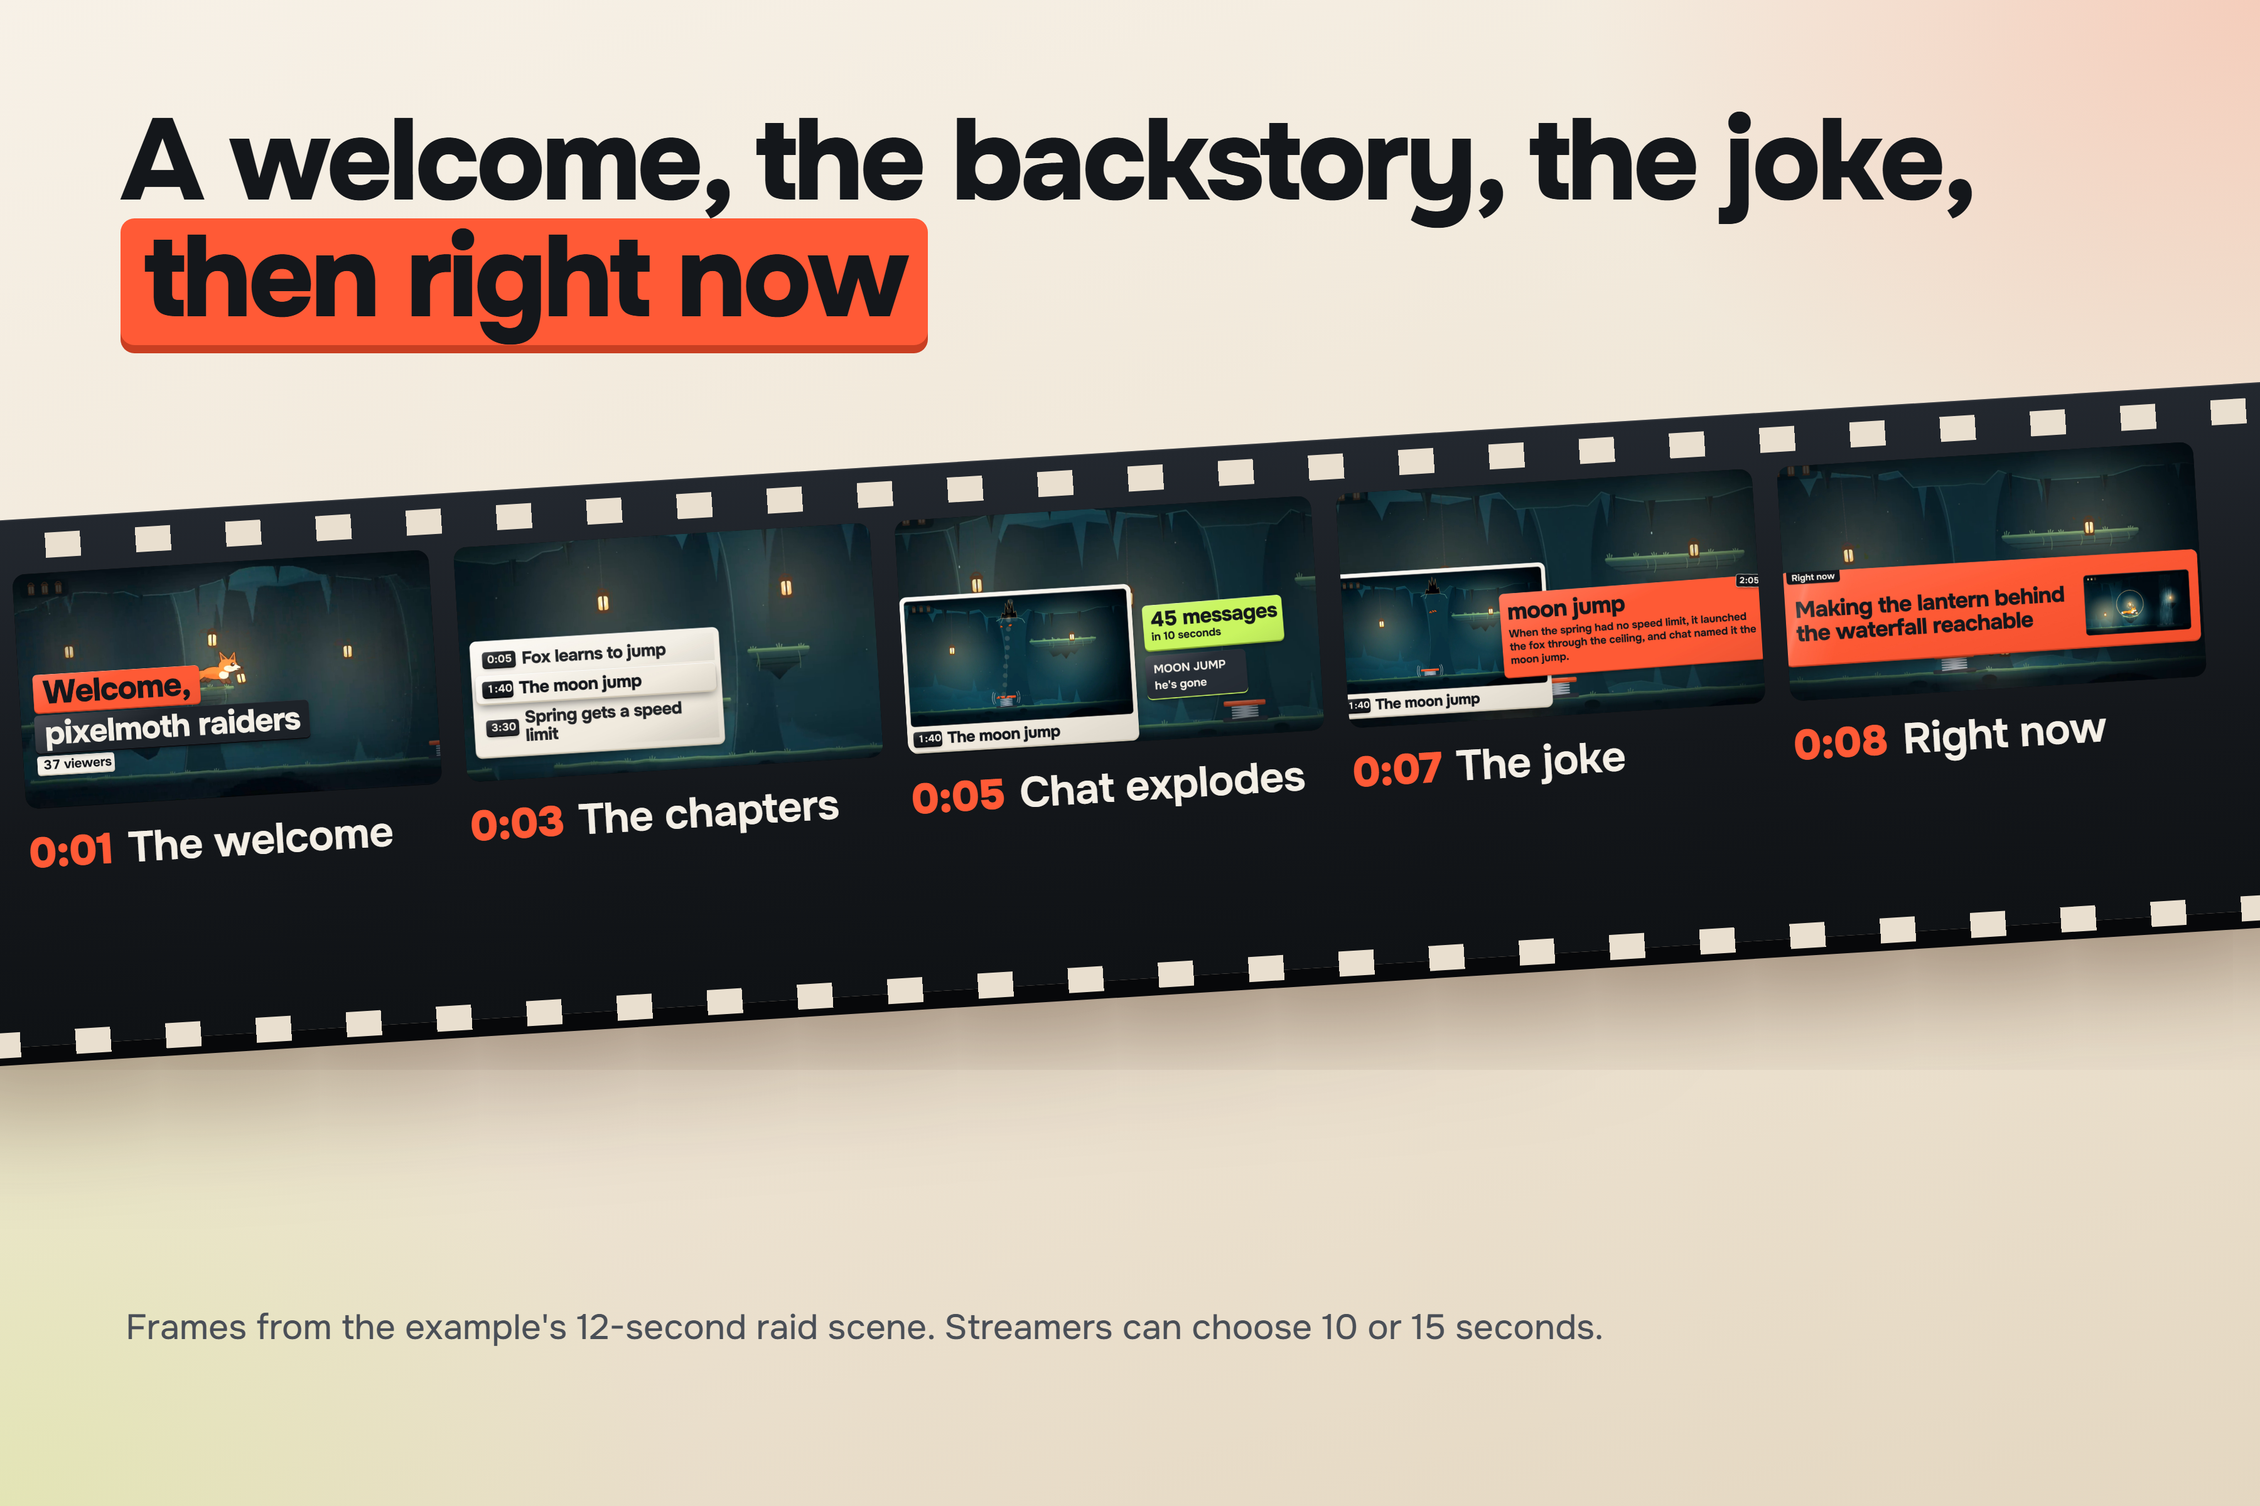
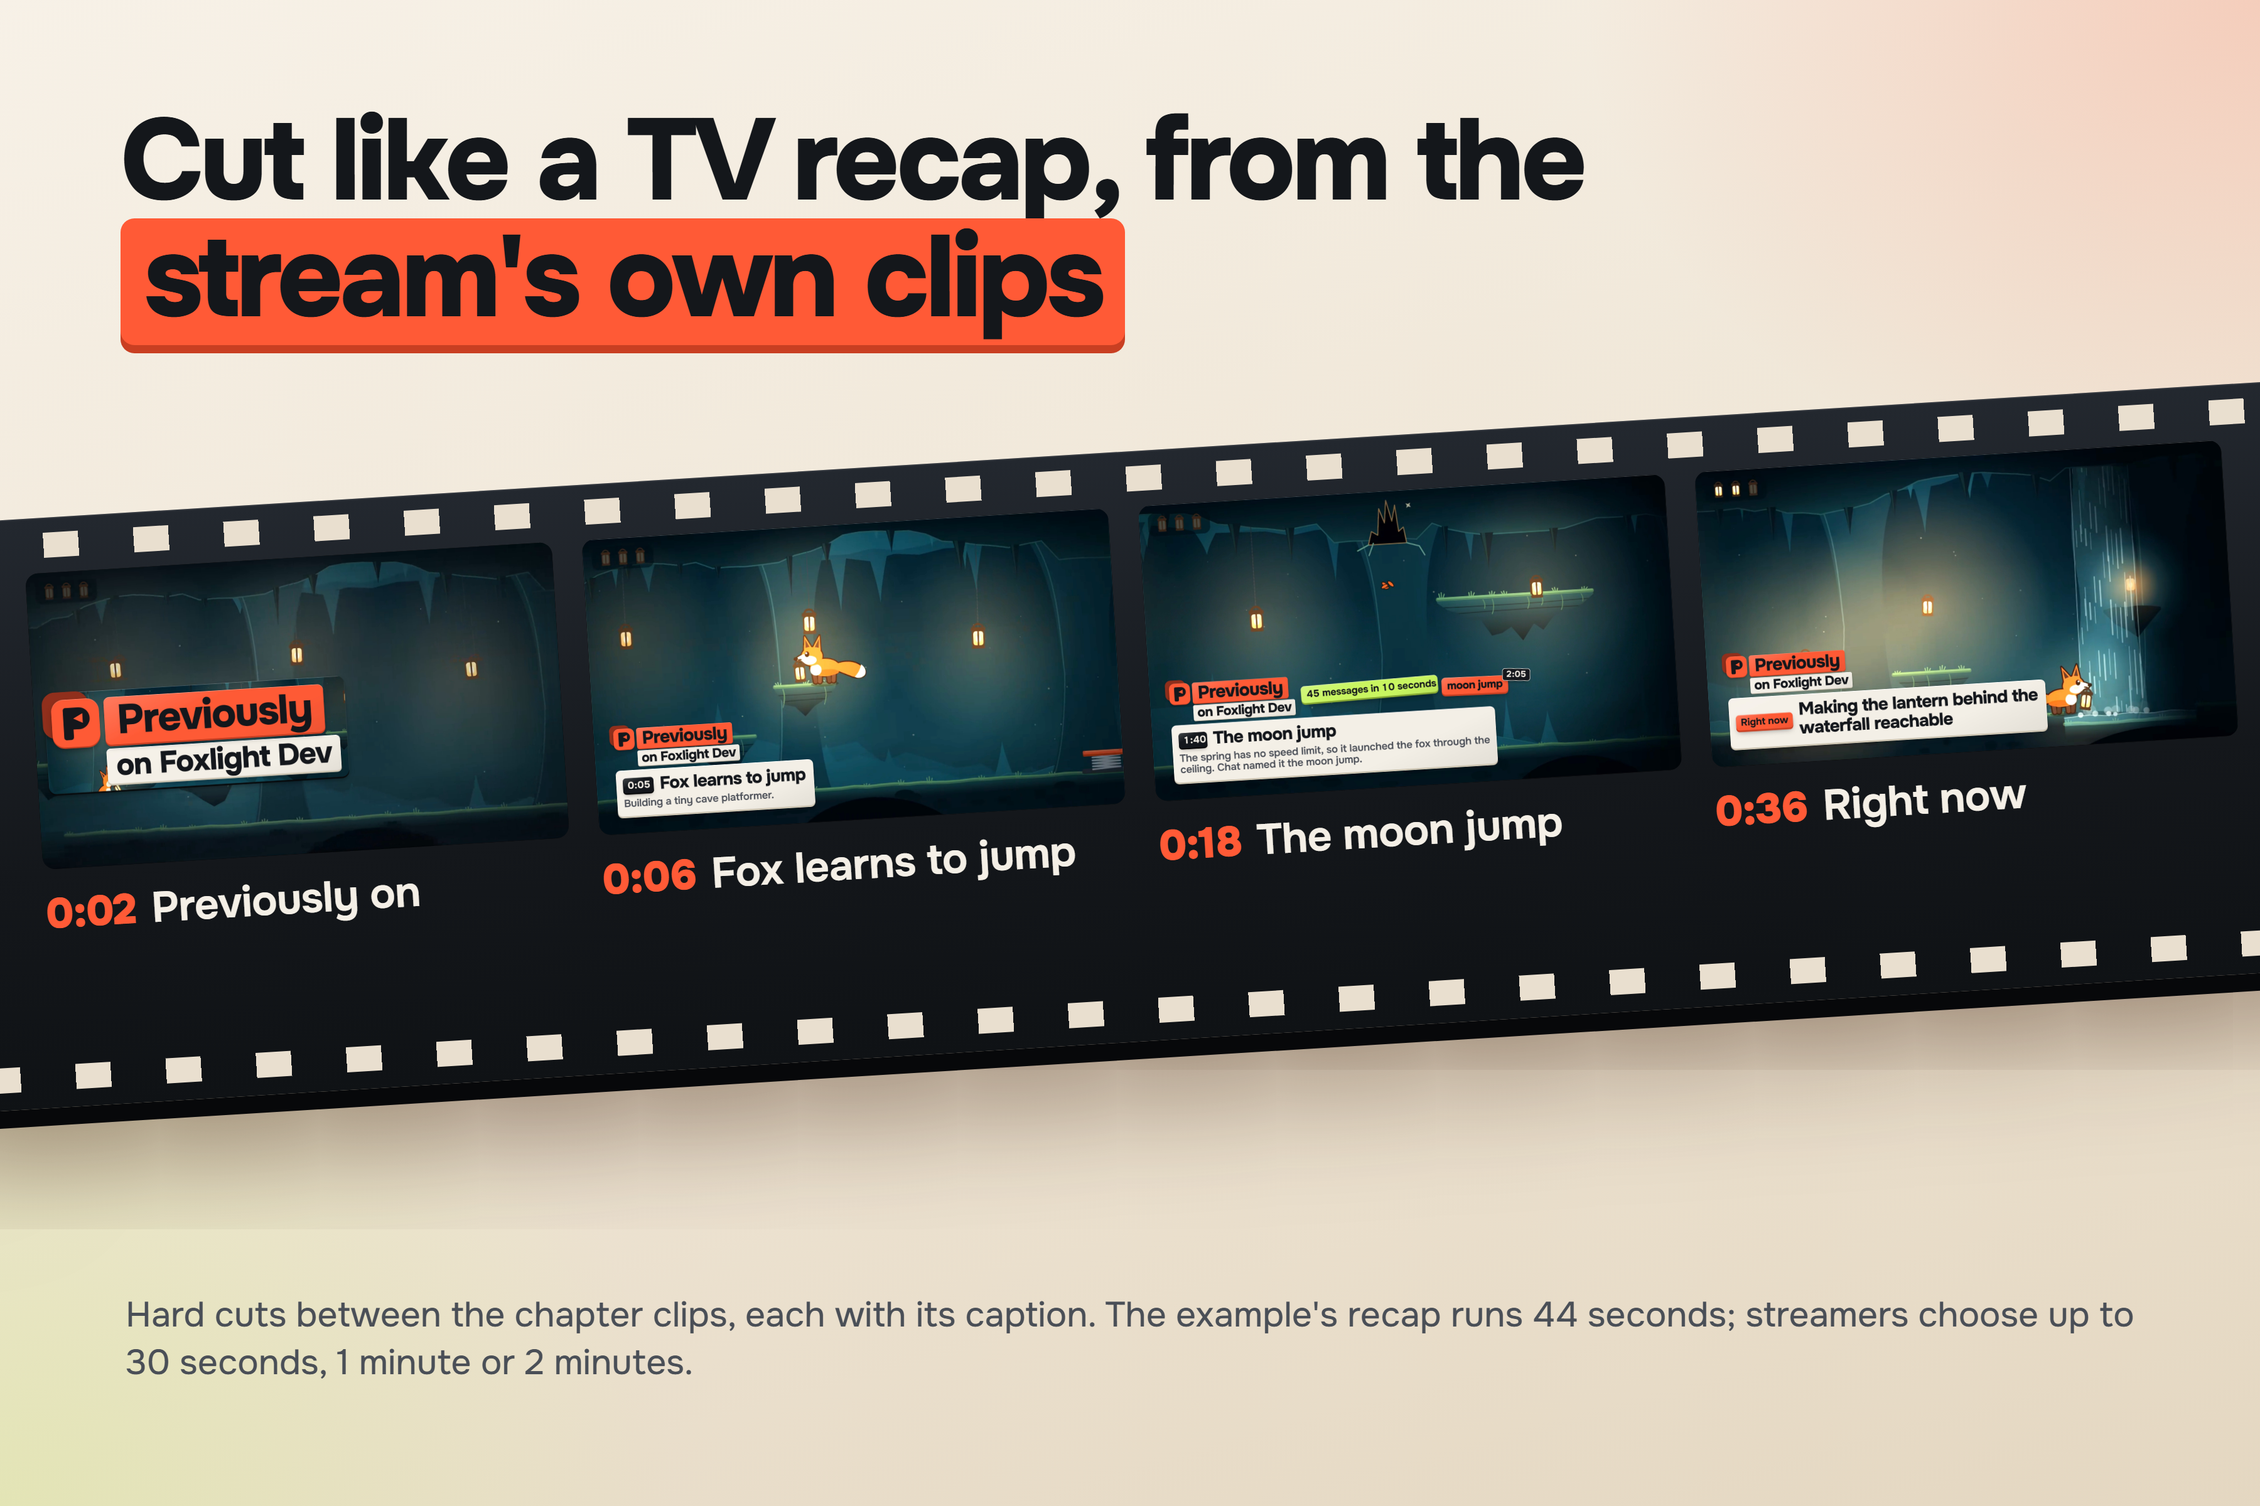
Show the TV-style recap in the gallery and README, with notes on length, skipping and OBS audio

diff --git a/docs/gallery/source/deck.html b/docs/gallery/source/deck.html
@@ -119,12 +119,12 @@ img { display: block; }
 .part { position: relative; padding: 22px 12px; text-align: center; display: flex; align-items: center; justify-content: center; }
 .part h3 { font-size: 25px; }
 
-.strip { position: absolute; left: -140px; width: 2080px; height: 420px; transform: rotate(-3.5deg); border-radius: 12px;
+.strip { position: absolute; left: -140px; width: 2080px; height: 470px; transform: rotate(-3.5deg); border-radius: 12px;
   background: linear-gradient(180deg, #23282F, #14171B 60%, #0F1215); box-shadow: 0 14px 0 #07080A, 0 70px 100px -36px rgba(60,30,10,.55), inset 0 1px 0 rgba(255,255,255,.08); }
 .strip .holes { height: 44px; margin: 0 20px; background: repeating-linear-gradient(90deg, transparent 0 22px, #E9DFCF 22px 50px, transparent 50px 72px) center / 100% 20px no-repeat; }
-.strip .frames { display: flex; gap: 20px; padding: 0 0 0 158px; height: 352px; }
-.strip figure { width: 332px; }
-.strip .sf { width: 332px; height: 187px; border-radius: 10px; overflow: hidden; background: #000; box-shadow: inset 0 0 0 2px rgba(255,255,255,.06); }
+.strip .frames { display: flex; gap: 24px; padding: 0 0 0 170px; height: 380px; }
+.strip figure { width: 420px; }
+.strip .sf { width: 420px; height: 236px; border-radius: 10px; overflow: hidden; background: #000; box-shadow: inset 0 0 0 2px rgba(255,255,255,.06); }
 .strip .sf img { width: 100%; height: 100%; object-fit: cover; }
 .strip figcaption { margin-top: 16px; color: var(--paper); font-size: 34px; font-weight: 650; line-height: 1.15; letter-spacing: -.01em; }
 .strip figcaption b { color: var(--verm); margin-right: 12px; font-variant-numeric: tabular-nums; }
@@ -185,7 +185,7 @@ img { display: block; }
 <section class="slide cv-lime" id="raid-scene" data-out="02-raid-scene">
   <div class="abs h1" style="left:96px; top:84px; width:1000px; font-size:100px;">Every raid gets its own <span class="plate k">Previously&nbsp;on</span></div>
   <img class="abs obj" src="assets/art/megaphone.png" style="left:1250px; top:40px; width:520px; filter: drop-shadow(0 40px 50px rgba(40,60,0,.45));">
-  <div class="frame" style="left:96px; top:390px; width:1180px; height:664px; transform: rotate(-1.5deg); box-shadow: 0 14px 0 #07080A, 0 80px 120px -40px rgba(40,60,0,.7);"><img src="assets/scene/joke.jpg"></div>
+  <div class="frame" style="left:96px; top:390px; width:1180px; height:664px; transform: rotate(-1.5deg); box-shadow: 0 14px 0 #07080A, 0 80px 120px -40px rgba(40,60,0,.7);"><img src="assets/scene/moon.jpg"></div>
   <div class="icard" style="left:1330px; top:560px; width:374px; padding:34px 28px 26px; transform: rotate(2deg);"><span class="stab" style="background:var(--lime);">Raid at 7:10</span><p style="font-size:44px; font-weight:800; letter-spacing:-.02em; line-height:1.05;">pixelmoth</p><p style="font-size:30px; margin-top:8px; color:#C9D0D8;">37 viewers arrive</p></div>
   <div class="abs body" style="left:1334px; top:800px; width:380px; color:var(--ink);">The scene starts the moment the raid lands, built from chapters already published, with the stream's own clips.</div>
   <div class="abs small" style="left:100px; top:1100px; width:1180px; color:#2E3A12;">The example recording's raid scene. Its chat and raid are written for the demo; the clips are real footage of Foxlight, our small game.</div>
@@ -193,19 +193,18 @@ img { display: block; }
 
 <!-- ============ 03 SCENE SEQUENCE ============ -->
 <section class="slide cv-paper" id="scene-sequence" data-out="03-scene-sequence">
-  <div class="abs h1" style="left:96px; top:84px; width:1500px; font-size:92px;">A welcome, the backstory, the joke, <span class="plate v">then right now</span></div>
+  <div class="abs h1" style="left:96px; top:84px; width:1500px; font-size:92px;">Cut like a TV recap, from the <span class="plate v">stream's own clips</span></div>
   <div class="strip" style="top:360px;">
     <div class="holes"></div>
     <div class="frames">
-      <figure><div class="sf"><img src="assets/scene/welcome.jpg"></div><figcaption><b>0:01</b>The welcome</figcaption></figure>
-      <figure><div class="sf"><img src="assets/scene/chapters.jpg" style="transform:scale(1.25); transform-origin: 18% 62%;"></div><figcaption><b>0:03</b>The chapters</figcaption></figure>
-      <figure><div class="sf"><img src="assets/scene/chat.jpg" style="transform:scale(1.15); transform-origin: 40% 55%;"></div><figcaption><b>0:05</b>Chat explodes</figcaption></figure>
-      <figure><div class="sf"><img src="assets/scene/joke.jpg" style="transform:scale(1.12); transform-origin: 60% 60%;"></div><figcaption><b>0:07</b>The joke</figcaption></figure>
-      <figure><div class="sf"><img src="assets/scene/now.jpg" style="transform:scale(1.1); transform-origin: 50% 58%;"></div><figcaption><b>0:08</b>Right now</figcaption></figure>
+      <figure><div class="sf"><img src="assets/scene/lockup.jpg"></div><figcaption><b>0:02</b>Previously on</figcaption></figure>
+      <figure><div class="sf"><img src="assets/scene/jump.jpg"></div><figcaption><b>0:06</b>Fox learns to jump</figcaption></figure>
+      <figure><div class="sf"><img src="assets/scene/moon.jpg"></div><figcaption><b>0:18</b>The moon jump</figcaption></figure>
+      <figure><div class="sf"><img src="assets/scene/now.jpg"></div><figcaption><b>0:36</b>Right now</figcaption></figure>
     </div>
     <div class="holes b"></div>
   </div>
-  <div class="abs small muted-paper" style="left:100px; top:1040px; width:1600px;">Frames from the example's 12-second raid scene. Streamers can choose 10 or 15 seconds.</div>
+  <div class="abs small muted-paper" style="left:100px; top:1030px; width:1600px;">Hard cuts between the chapter clips, each with its caption. The example's recap runs 44 seconds; streamers choose up to 30 seconds, 1 minute or 2 minutes.</div>
 </section>
 
 <!-- ============ 04 CHAT COMMAND ============ -->

diff --git a/README.md b/README.md
@@ -12,7 +12,7 @@ Previously follows a Twitch stream while it happens. It listens to the streamer'
   <a href="https://previously-seven.vercel.app/replay"><b>Watch the example recording</b></a>&emsp;&emsp;<a href="#run-it-for-your-channel"><b>Run it for your channel</b></a>&emsp;&emsp;<a href="#how-the-story-is-built"><b>See how it works</b></a>
 </p>
 
-<p align="center"><img src="docs/readme/scene-loop.webp" width="720" alt="The Previously raid scene playing over Foxlight gameplay: the chapter list, the moon jump clip with chat's 45 messages, the term explained, and the card saying what is happening now"></p>
+<p align="center"><img src="docs/readme/scene-loop.webp" width="720" alt="The Previously raid scene over Foxlight gameplay: the Previously on Foxlight Dev title, hard cuts between captioned chapter clips, the moon jump tagged with 45 chat messages, what is happening now, then the P mark asking viewers to type !previously"></p>
 <p align="center"><sub>The raid scene from the example recording, captured from the app</sub></p>
 
 <p align="center">
@@ -33,10 +33,10 @@ Previously follows a Twitch stream while it happens. It listens to the streamer'
 
 A raid brings a group of people who have no idea what the stream is about. Regular viewers know the goal, the running joke and the bug from twenty minutes ago, while the new arrivals see only the last few seconds. Asking the streamer to stop and explain works, but it interrupts the stream every time. Previously keeps that explanation ready so it can be shown the moment they arrive.
 
-In the example recording, Foxlight Dev is building a small cave platformer. At 1:40 a spring pad launches the fox through the ceiling and chat floods with "MOON JUMP". At 3:30 the spring gets a speed limit, and the moon jump stays in the game as a secret cheat. When pixelmoth raids with 37 viewers at 7:10, the scene walks them through the chapters with the real gameplay clips, shows chat's burst turning into the term "moon jump" and what it means, and ends on what is happening now: making the lantern behind the waterfall reachable. Then the overlay clears the screen.
+In the example recording, Foxlight Dev is building a small cave platformer. At 1:40 a spring pad launches the fox through the ceiling and chat floods with "MOON JUMP". At 3:30 the spring gets a speed limit, and the moon jump stays in the game as a secret cheat. When pixelmoth raids with 37 viewers at 7:10, they get a "Previously on Foxlight Dev" recap: the chapters' real gameplay clips in hard cuts, each with a short caption, the moon jump tagged with chat's 45 messages and the name chat gave it, and finally what is happening now: making the lantern behind the waterfall reachable. Then the overlay clears the screen.
 
-<p align="center"><img src="docs/readme/shot-scene-chapters.jpg" width="32%" alt="Raid scene: the chapter list so far, Fox learns to jump at 0:05, The moon jump at 1:40 and Spring gets a speed limit at 3:30"> <img src="docs/readme/shot-scene-chat.jpg" width="32%" alt="Raid scene: the moon jump clip with a counter reading 45 messages in 10 seconds and two chat lines, MOON JUMP and he's gone"> <img src="docs/readme/shot-scene-now.jpg" width="32%" alt="Raid scene: the final card saying the streamer is making the lantern behind the waterfall reachable"></p>
-<p align="center"><sub>The chapters so far, chat's reaction to the moon jump, and what is happening now</sub></p>
+<p align="center"><img src="docs/readme/shot-scene-chapters.jpg" width="32%" alt="Raid scene: the Fox learns to jump clip full frame, with its 0:05 caption under the Previously on Foxlight Dev label"> <img src="docs/readme/shot-scene-chat.jpg" width="32%" alt="Raid scene: the moon jump clip with its 1:40 caption, a lime tag reading 45 messages in 10 seconds and a moon jump tag"> <img src="docs/readme/shot-scene-now.jpg" width="32%" alt="Raid scene: the Right now clip at the waterfall, captioned Making the lantern behind the waterfall reachable"></p>
+<p align="center"><sub>A chapter clip with its caption, the moon jump with chat's reaction, and what is happening now</sub></p>
 
 The same story answers `!previously` in chat and fills the channel's public page, where a late viewer can open the source behind any chapter. Every sentence is held back for 75 seconds after its last source and checked before anyone sees it, so the streamer has time to fix or remove it first.
 
@@ -111,7 +111,7 @@ You need Windows, Node.js 22.13 or newer, a modern desktop browser, OBS, your Tw
 5. **Connect Twitch** at [https://localhost:4317/setup](https://localhost:4317/setup) and sign in as the broadcaster from `TWITCH_CHANNEL_LOGIN`. Tokens are encrypted in the local database; never paste them into `.env`.
 6. **Go live in OBS**, then choose **Check again** in setup until the stream session appears. Connecting the account does not start a session; only a live stream does.
 7. **Open the dock** at [https://localhost:4317/dock](https://localhost:4317/dock) in a normal browser tab. Listening starts paused, so choose **Resume listening** or **Start microphone**, allow the microphone and leave the tab open.
-8. **Add the scene to OBS.** In setup, choose **Copy OBS overlay URL** and add it as a 1920 × 1080 Browser Source. The URL grants access to your overlay, so keep it private.
+8. **Add the scene to OBS.** In setup, choose **Copy OBS overlay URL** and add it as a 1920 × 1080 Browser Source. The URL grants access to your overlay, so keep it private. Clip audio plays through that Browser Source, so if you want viewers to hear the clips clearly, set up audio ducking for your microphone in OBS or lower the mic while a recap plays.
 
 <p align="center"><img src="docs/readme/shot-setup.jpg" width="49%" alt="The setup page: step one checks local storage, the OpenAI key and the Twitch app and says what to add to .env"> <img src="docs/readme/shot-setup-steps.jpg" width="49%" alt="The setup page further down: choosing when to listen, adding the scene to OBS and previewing it"></p>
 <p align="center"><sub>The setup page checks each step and says what is missing before the first stream</sub></p>
@@ -124,7 +124,7 @@ The first chapter needs about two to three minutes of talking, because speech is
 
 Chapters appear in the dock once their checks and hold are done. You can open the source behind a chapter, edit its wording or pin it for the next scene. **Preview** plays the scene only in the dock, and **Show recap** plays it in OBS. The dock's keyboard shortcut works while the dock has focus.
 
-The scene lasts 10, 12 or 15 seconds, set in **Scene settings** along with its position and the areas it must not cover. Before there is enough story, a raid gets a 5-second welcome, which can use your own short context and an approved clip from a previous stream, labelled as such. One scene plays at a time and one more can wait; later raids join that waiting welcome. **Show a recap when a raid arrives** is on by default, and your Twitch incoming raid settings still apply.
+The recap runs up to 30 seconds, 1 minute or 2 minutes (1 minute by default), set in **Scene settings** along with its position and the areas it must not cover. It is a montage of the chapter clips, each with a caption, so a short story can finish sooner: the example's recap is 44 seconds. Viewers watching the broadcast cannot click anything, so you end a recap early with **Skip recap** in the dock or with Esc while the dock has focus. Before there is enough story, a raid gets a 5-second welcome, which can use your own short context and an approved clip from a previous stream, labelled as such. One scene plays at a time and one more can wait; later raids join that waiting welcome. **Show a recap when a raid arrives** is on by default, and your Twitch incoming raid settings still apply.
 
 Viewers get two chat commands. `!previously` replies with the current context, and `!lore TERM` explains a channel term when a checked explanation exists. Each viewer has a 30-second cooldown, the bot sends at most one message every 10 seconds, and it ignores its own replies. **Save moment** marks a moment even when chat is quiet. Automatic Twitch clips stay off until you allow them in scene settings, and optional VOD markers need `TWITCH_MARKERS_ENABLED=true` and a reconnect.
 
